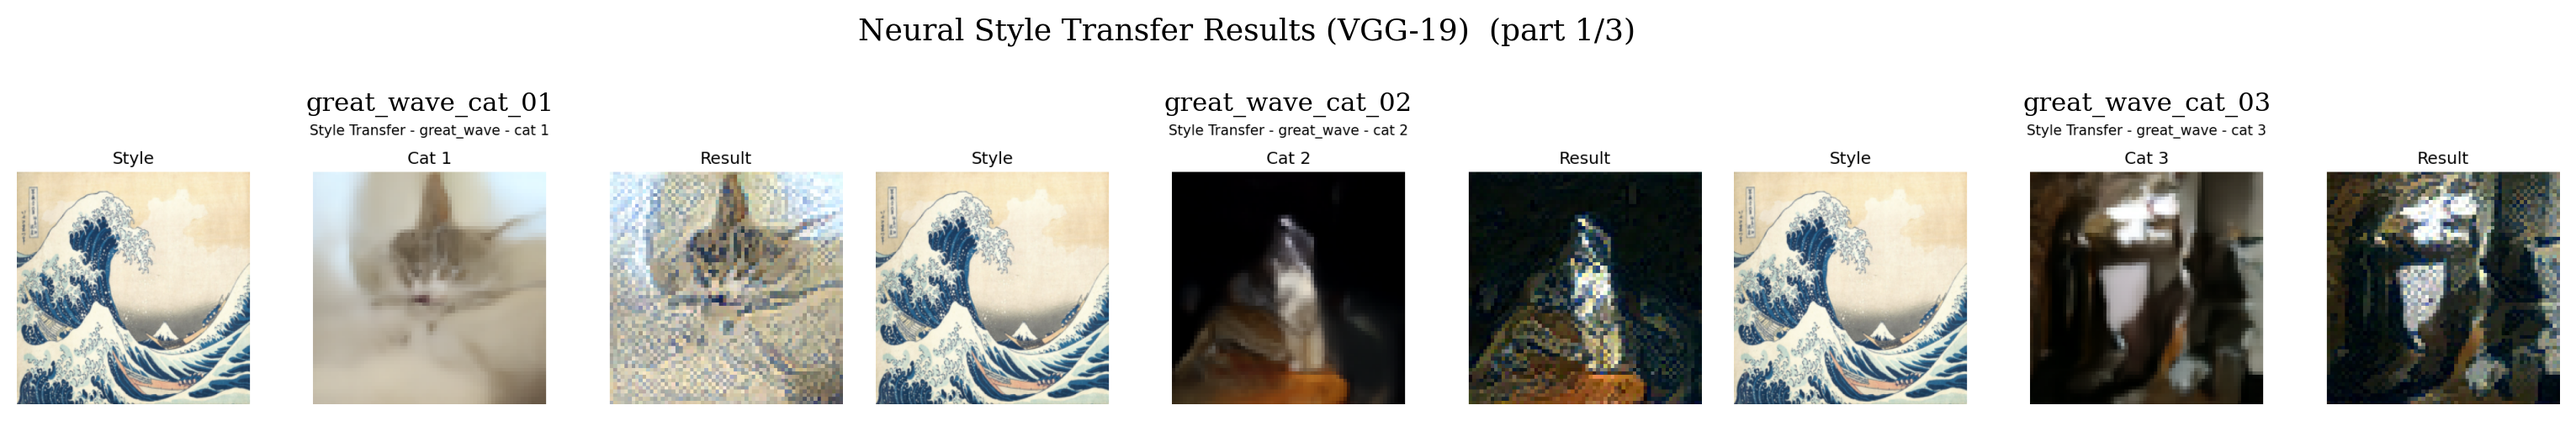
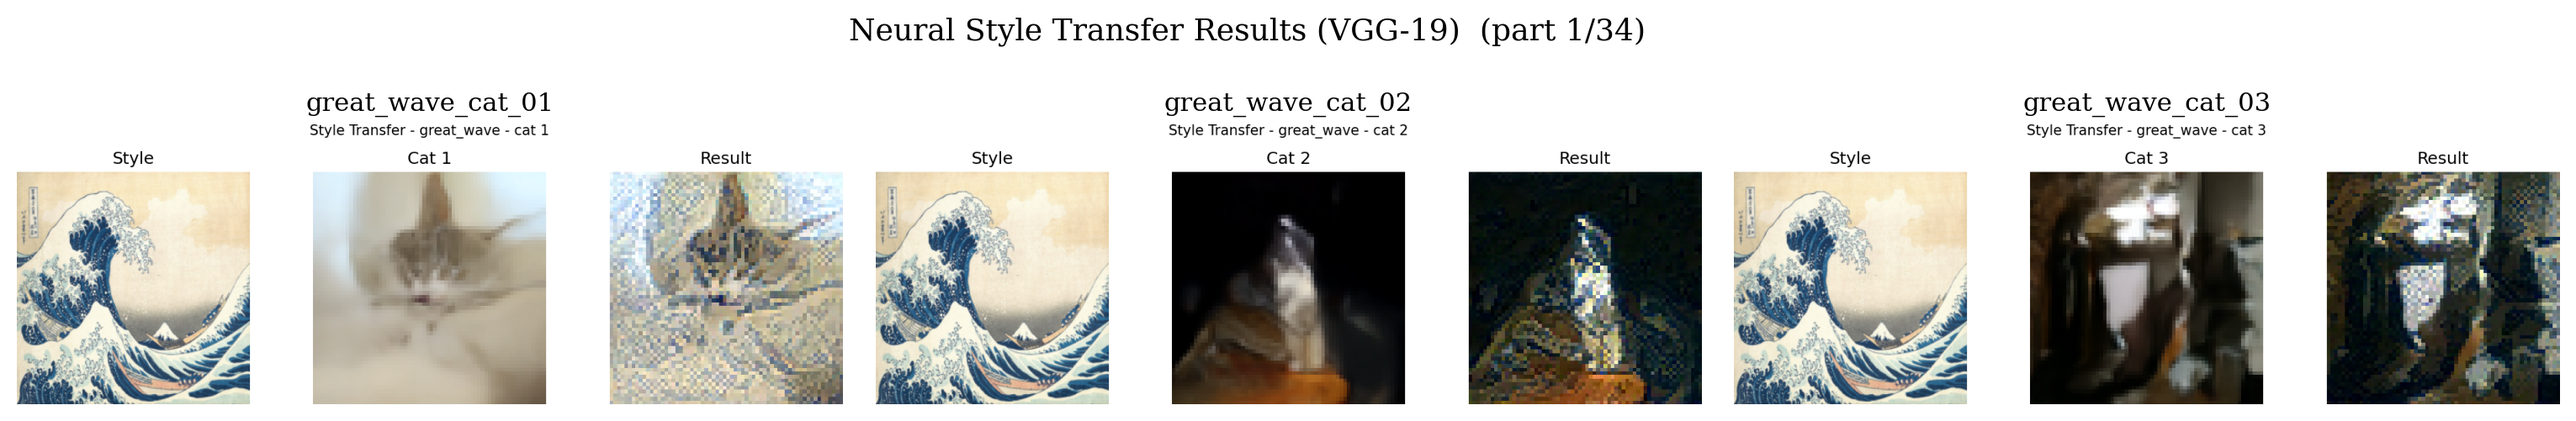
comparable fid

Changed region(s): [[0.3103, 0.0299, 0.6515, 0.1198]]

diff --git a/ddpm/generate_plots.py b/ddpm/generate_plots.py
@@ -447,11 +447,12 @@ def plot_style_transfer_gallery():
     if not os.path.isdir(d):
         print("  [SKIP] style_transfer directory not found")
         return
-    files = sorted(f for f in os.listdir(d) if f.endswith(".png"))[:9]
+    files = sorted(f for f in os.listdir(d) if f.endswith(".png"))
     if not files:
         return
     _save_gallery_chunks(d, files, "Neural Style Transfer Results (VGG-19)",
                          "style_transfer_gallery", cols=3, rows_per_fig=1)
+
 
 
 # ── Plot 11: Loss smoothed ────────────────────────────────────────────────
